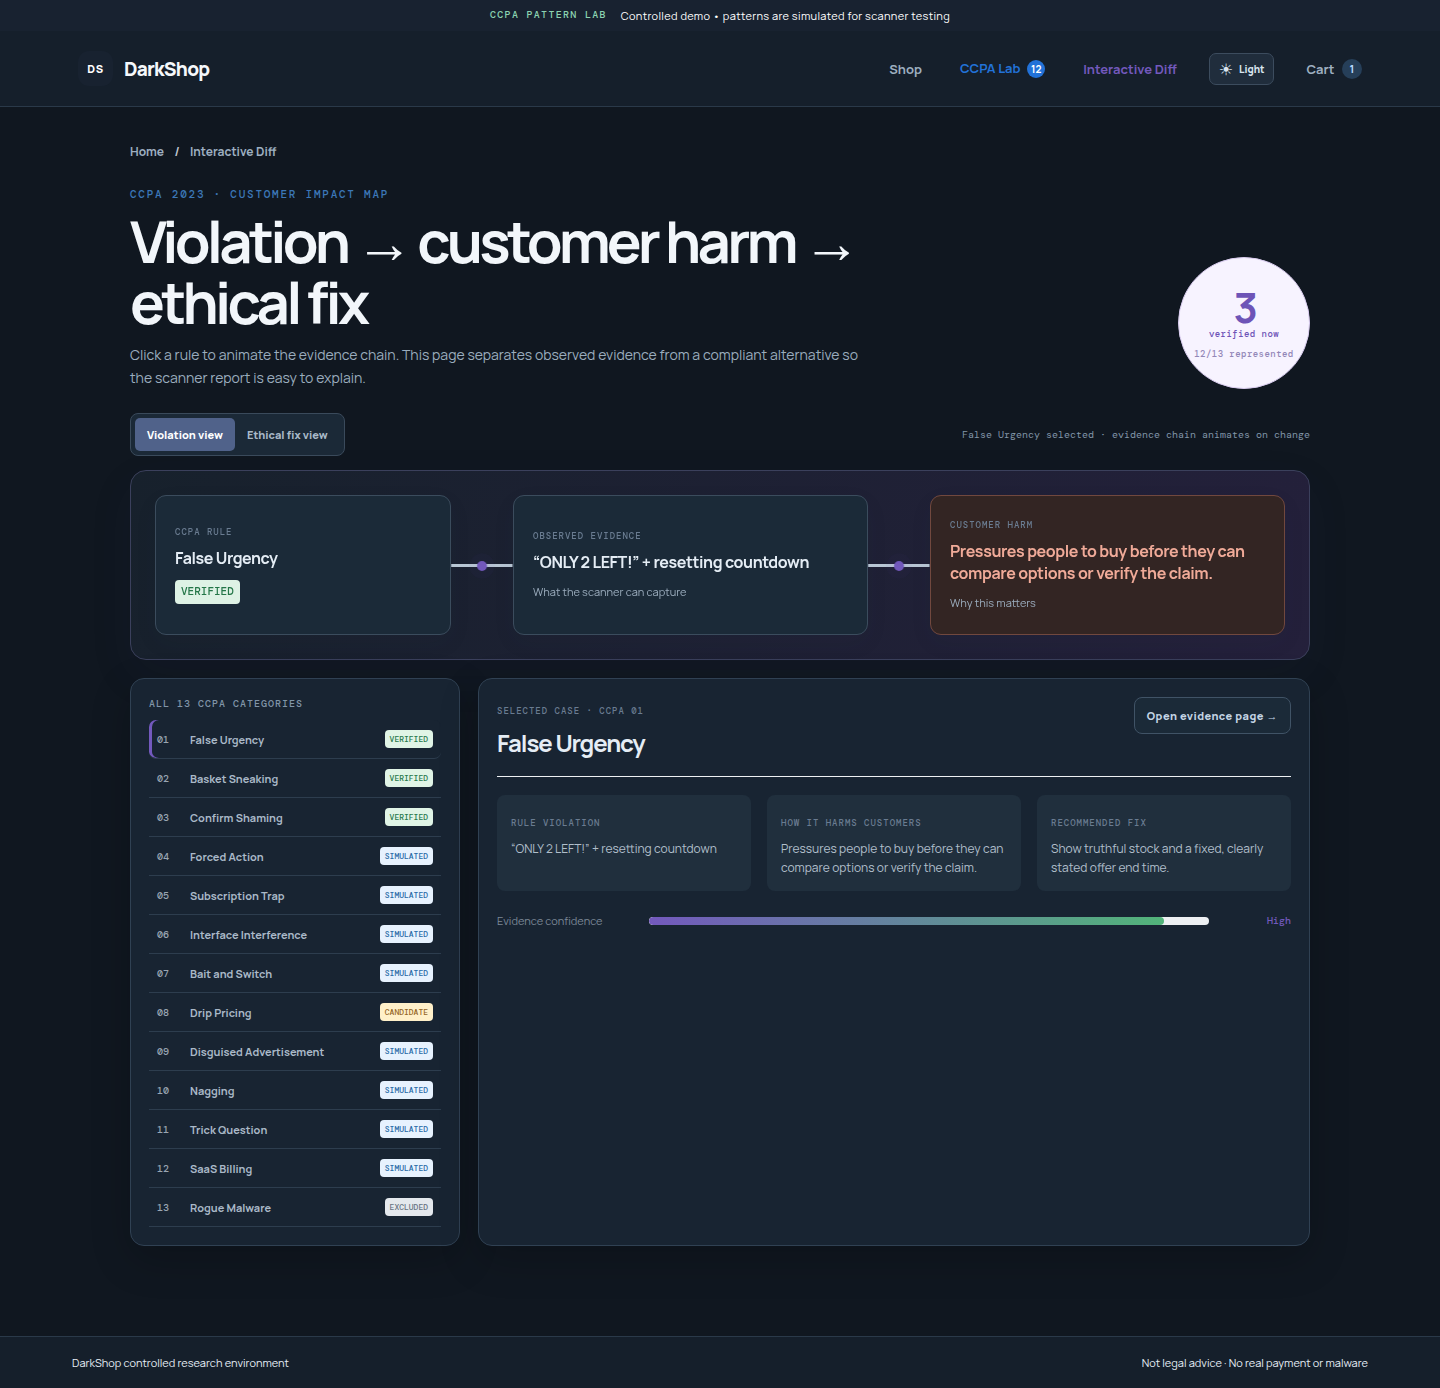
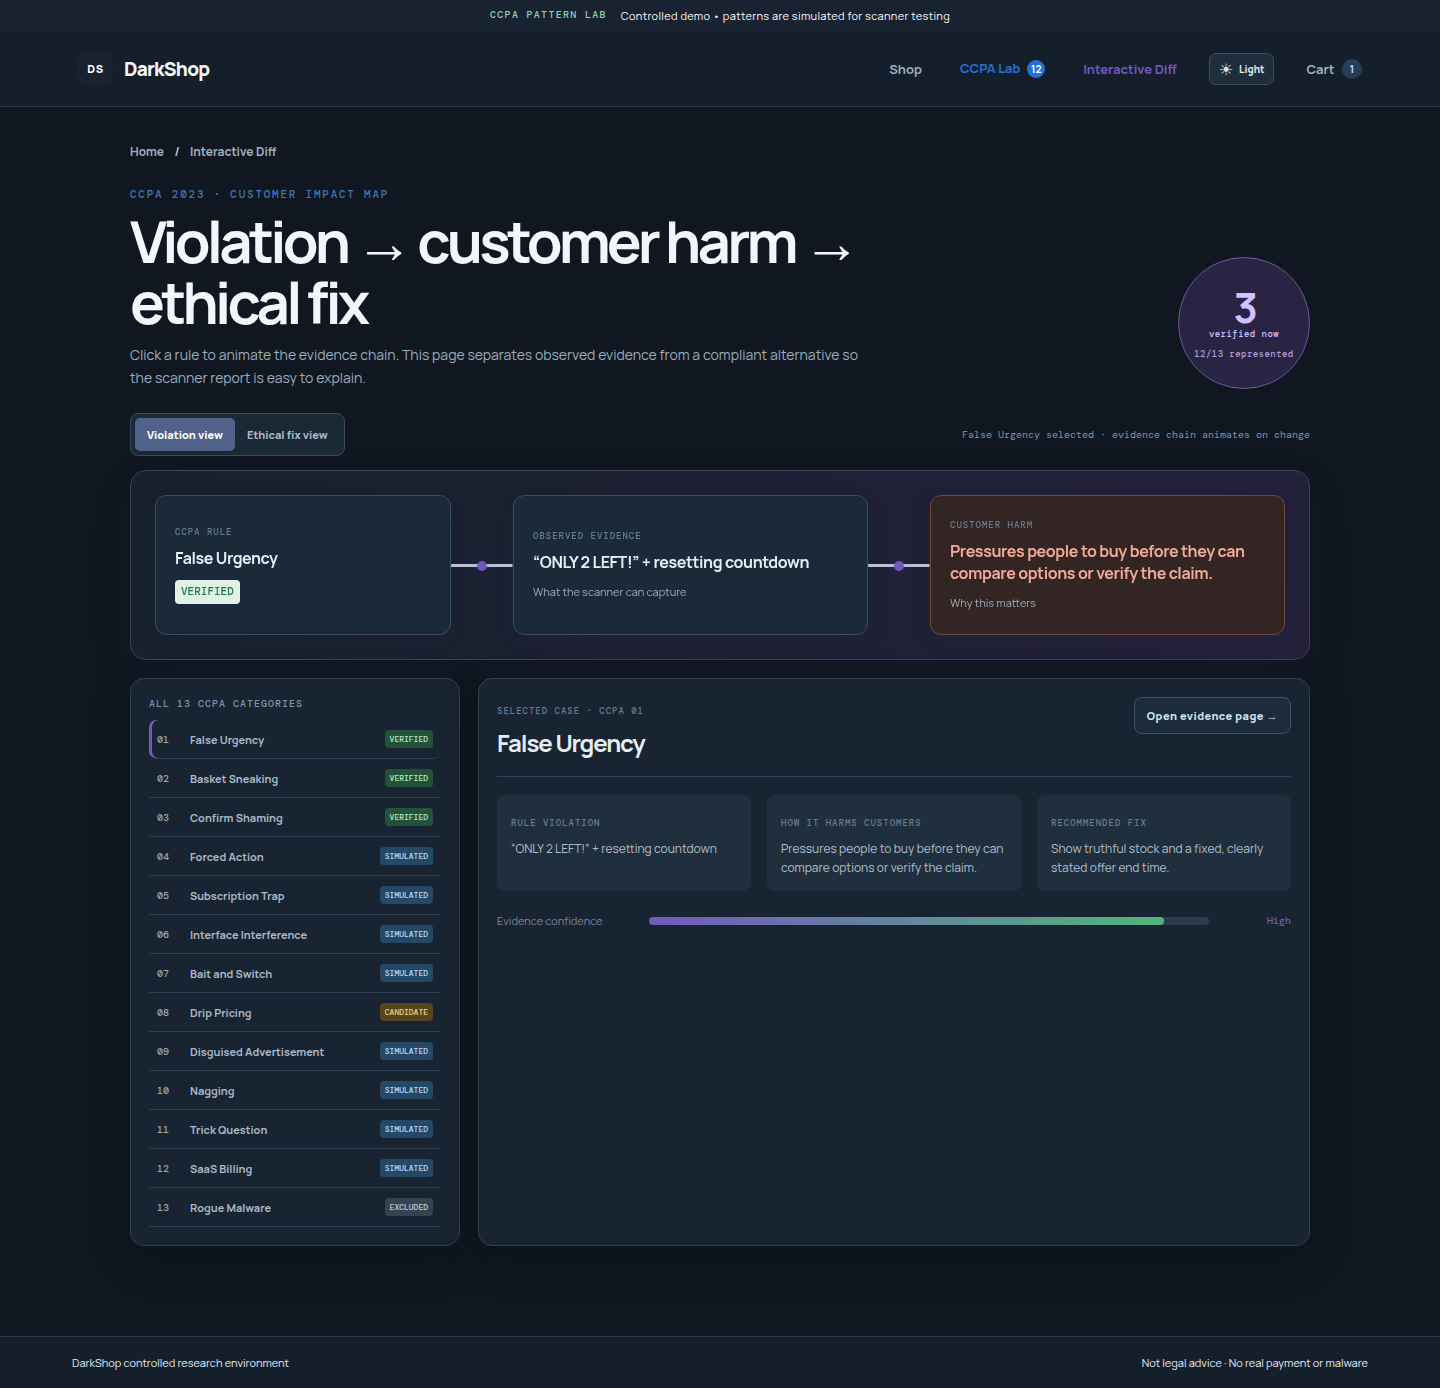
fix(demo-site): unify dark theme surfaces

Changed region(s): [[0.25, 0.5267, 0.3125, 0.8984], [0.8125, 0.1859, 0.9062, 0.2788], [0.8125, 0.6506, 0.8438, 0.6816]]

diff --git a/demo-site/src/styles.css b/demo-site/src/styles.css
@@ -161,3 +161,41 @@ h1 { margin: 10px 0 13px; color: #182230; font-size: clamp(32px, 4vw, 52px); lin
 :root[data-theme='dark'] .switch-row strong { color:#e5edf5; }
 :root[data-theme='dark'] .toggle-row { color:#e8c77e; background:#332b1d; }.cancel-step { border-color:#354759; color:#8fa3b6; }.cancel-step.active { background:#332c20; border-color:#705b36; }.switch-row { background:#1c3346; color:#a9cbe3; }.switch-row.warning { background:#382623; color:#f0a491; }
 @media (max-width:700px) { .real-headphone-photo { width:74%; height:360px; }.theme-toggle small { display:none; }.main-nav { gap:8px; } }
+
+/* Dark-mode consistency pass: remove remaining pale islands */
+:root[data-theme='dark'] .verified-evidence { background:#182f28 !important; border-color:#3b7656 !important; }
+:root[data-theme='dark'] .verified-evidence .urgency-panel { background:#352b1c !important; border-color:#725a32 !important; }
+:root[data-theme='dark'] .verified-evidence .timer-line { border-color:#604d2d !important; }
+:root[data-theme='dark'] .verified-evidence .urgency-line strong,
+:root[data-theme='dark'] .verified-evidence .timer-line strong { color:#f2be69 !important; }
+:root[data-theme='dark'] .verified-evidence .urgency-line span:last-child,
+:root[data-theme='dark'] .verified-evidence .timer-line span { color:#cbb58b !important; }
+:root[data-theme='dark'] .evidence-tag { color:#9ce2b2 !important; }
+:root[data-theme='dark'] .evidence-note { color:#a1c5ad !important; }
+:root[data-theme='dark'] .shaming-tag { color:#efaa98 !important; }
+:root[data-theme='dark'] .shaming-box { border:1px solid #71473e; background:#382522 !important; color:#d9a99c; }
+:root[data-theme='dark'] .mini-verified { color:#a8e4ba !important; background:#24513a !important; }
+:root[data-theme='dark'] .ethical-fix { border-color:#304153 !important; background:#182432 !important; }
+:root[data-theme='dark'] .fix-before { color:#f0b0a0 !important; background:#392522 !important; }
+:root[data-theme='dark'] .fix-after { color:#a8e4ba !important; background:#1d3b2b !important; }
+:root[data-theme='dark'] .coverage-score { color:#a8e4ba !important; border-color:#3d7657 !important; background:#193328 !important; }
+:root[data-theme='dark'] .diff-score { color:#d0c1ff !important; border-color:#6a5b9b !important; background:#292344 !important; }
+:root[data-theme='dark'] .diff-score small { color:#aea0d6 !important; }
+:root[data-theme='dark'] .status-verified .status-badge,
+:root[data-theme='dark'] .diff-index-row em.verified { color:#b3edc4 !important; background:#24513a !important; }
+:root[data-theme='dark'] .status-candidate .status-badge,
+:root[data-theme='dark'] .diff-index-row em.candidate { color:#f1d48a !important; background:#57451f !important; }
+:root[data-theme='dark'] .status-simulated .status-badge,
+:root[data-theme='dark'] .diff-index-row em.simulated { color:#b9dcfa !important; background:#244866 !important; }
+:root[data-theme='dark'] .status-excluded .status-badge,
+:root[data-theme='dark'] .diff-index-row em.excluded { color:#c4ced8 !important; background:#354250 !important; }
+:root[data-theme='dark'] .diff-detail .detail-header { border-color:#304153 !important; }
+:root[data-theme='dark'] .confidence-bar > div { background:#2b3c4c !important; }
+:root[data-theme='dark'] .lab-actions .secondary-cta,
+:root[data-theme='dark'] .detail-header .secondary-cta { color:#d3e3f2 !important; background:#1c2c3b !important; }
+:root[data-theme='dark'] .trust-strip { border-color:#304153 !important; }
+:root[data-theme='dark'] .feature-list span { border-color:#3b4d5f !important; color:#b0c0cf !important; }
+:root[data-theme='dark'] .cart-note { color:#9aabba !important; }
+:root[data-theme='dark'] .note-icon { color:#b9dcfa !important; background:#244866 !important; }
+:root[data-theme='dark'] .primary-cta { background:#263a50; }
+:root[data-theme='dark'] .primary-cta:hover { background:#385a78; }
